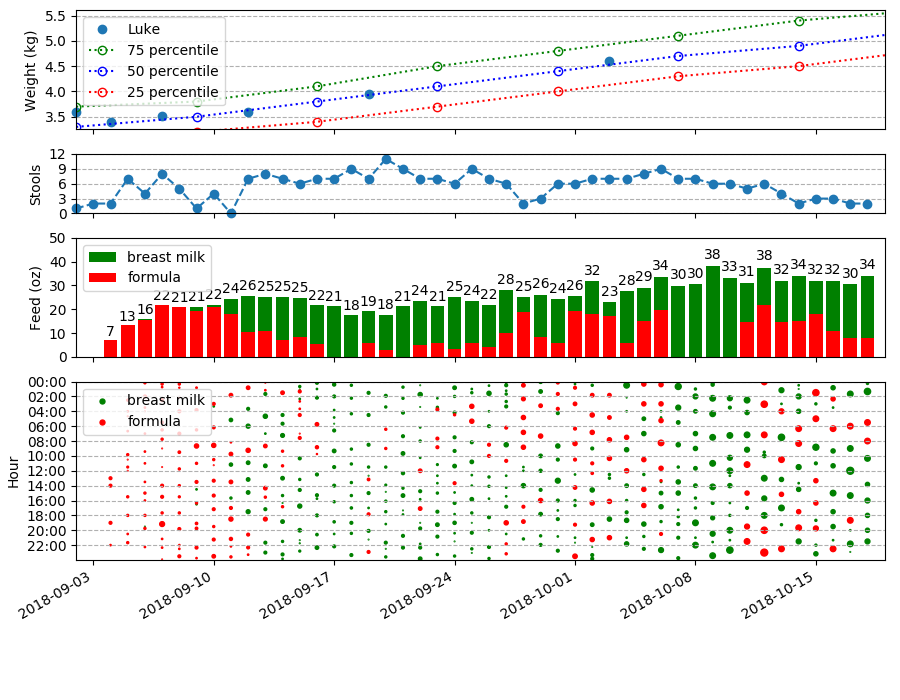
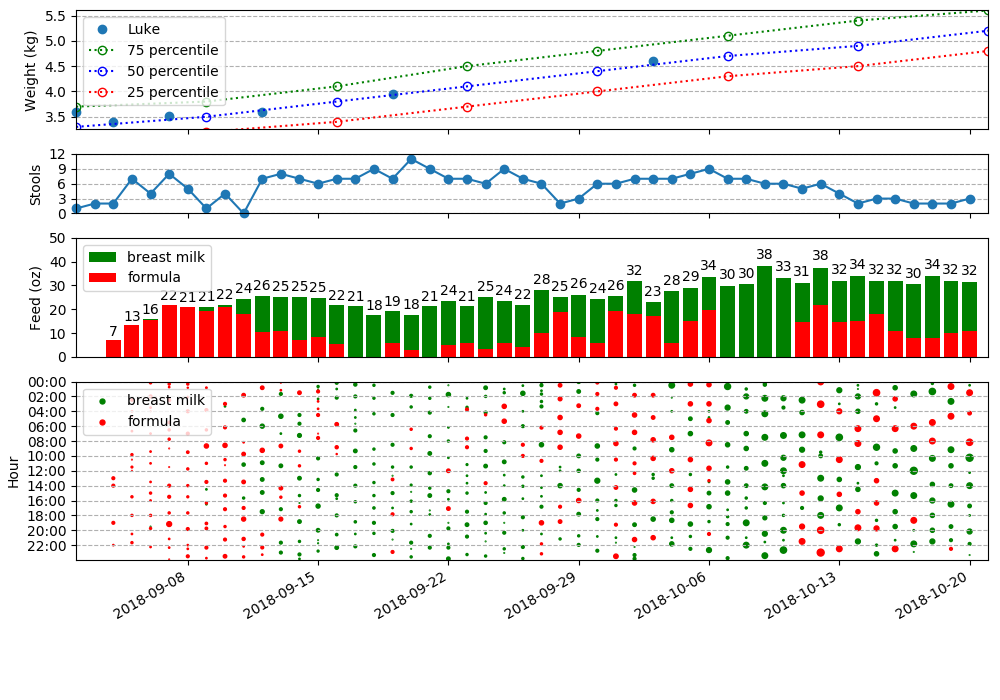
update 10.20

diff --git a/src/analyze.py b/src/analyze.py
@@ -35,7 +35,7 @@ weight_guide = pd.read_csv(
 )
 
 # ----------- figure setup --------------------------------
-fig = plt.figure(figsize=(9, 7))
+fig = plt.figure(figsize=(10, 7))
 gs = gridspec.GridSpec(nrows=4, ncols=1, height_ratios=[2, 1, 2, 3])
 dates = df2.index.date
 one_day = datetime.timedelta(days=1)
@@ -43,7 +43,7 @@ one_day = datetime.timedelta(days=1)
 # ----------- plot daily stool count -----------------------
 ax2 = fig.add_subplot(gs[1])
 ax2.grid(True, axis='y', linestyle='--')
-plt.plot(dates, df2.Stool.values, 'o--', clip_on=False)
+plt.plot(dates, df2.Stool.values, 'o-', clip_on=False)
 plt.ylabel('Stools')
 utils.set_y_major(3)
 #ax2.set_xticks(df2.index.date, minor=True)
